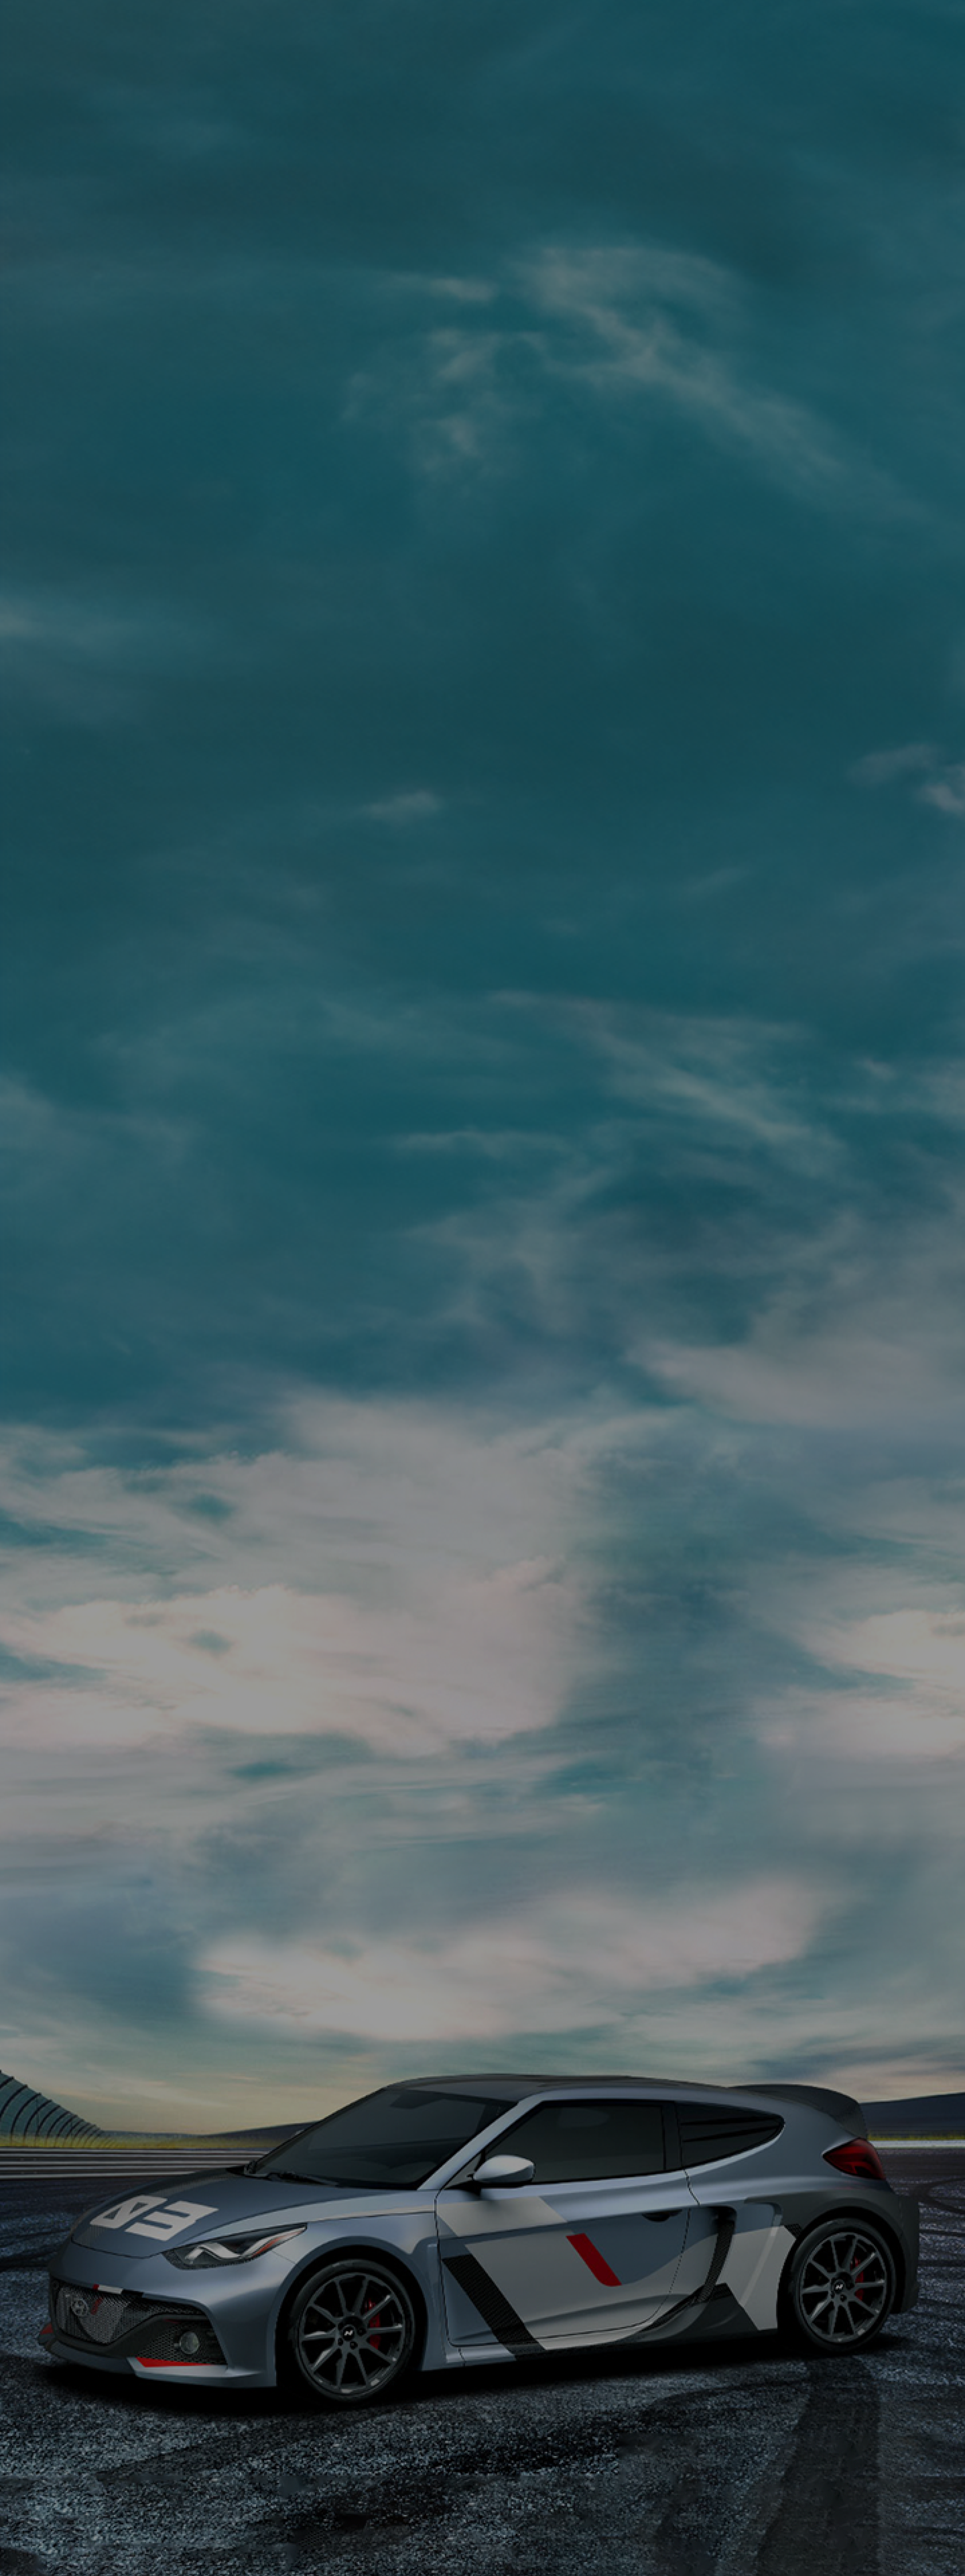
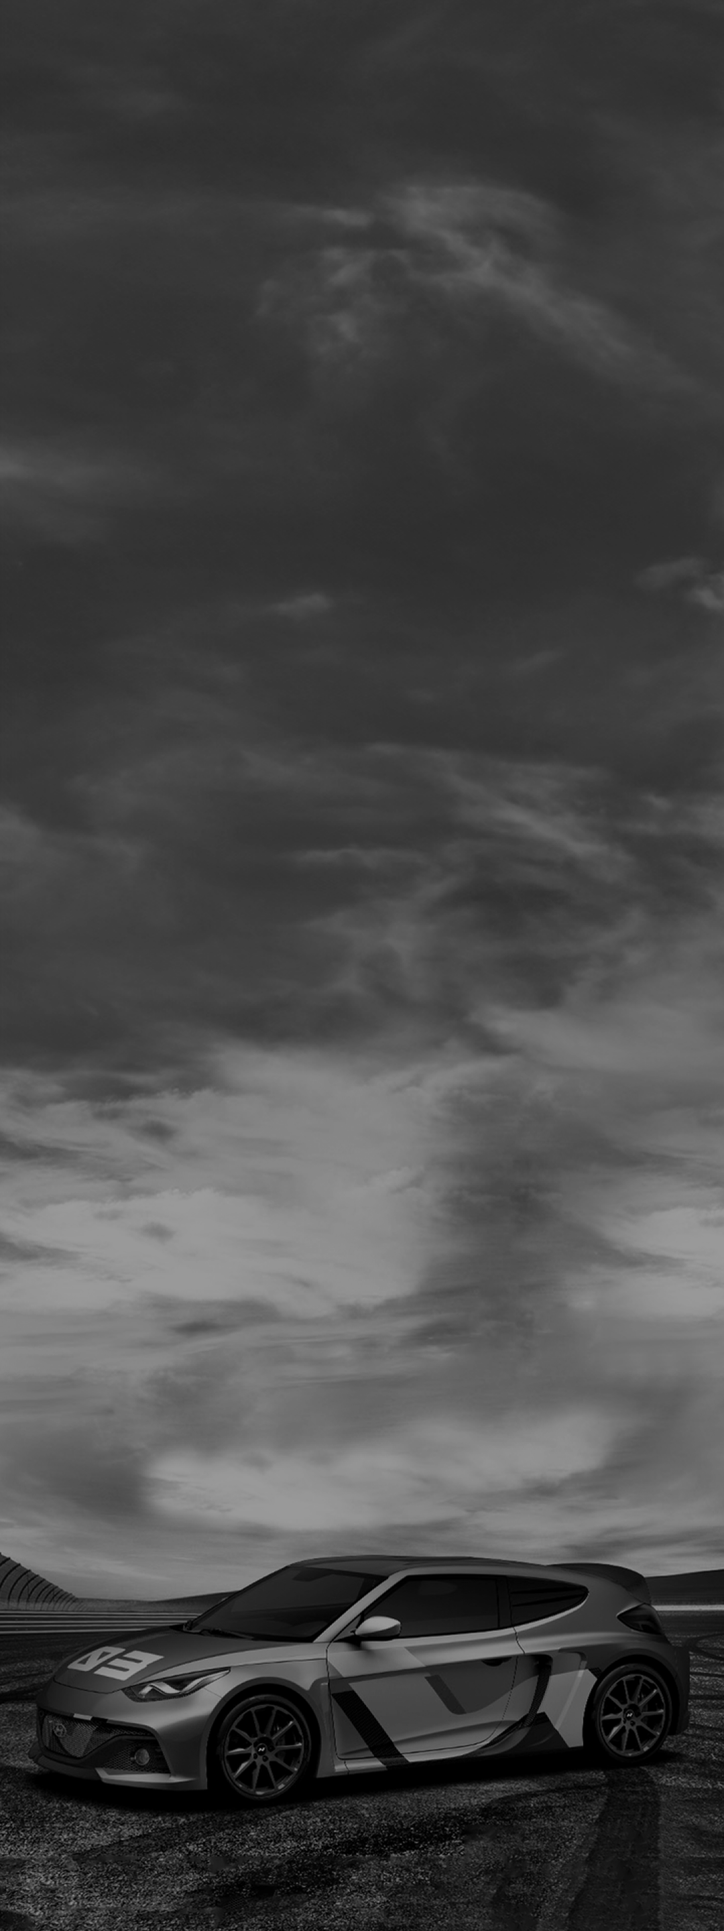
- 오타 수정 (MD010101) <p class="text-strong-md txt-left">N Light Sport Bucket Seats</p> <!-- 07.16 수정 : 오타 수정 --> - 모델 컨텐츠 이미지 : 컬러 -> 흑백 이미지 변경 (모바일) - gnb 버튼 추가건 작업 선배포 CM010101(진행중)

diff --git a/html/main/CM010101.html b/html/main/CM010101.html
@@ -780,9 +780,33 @@
             </ul>
           </div>
           <div class="navigation-item03">
-            <button class="sharing-btn pop-open" aria-controls="sharing-page" aria-haspopup="true" aria-expanded="false"
+            <div class="btn-navi-wrap">
+              <div class="btn-box">
+                <button type="button" class="btn btn-md-primary01">
+                  My Post
+                  <span class="btn-icon16 icon-right-wh" aria-hidden="true"></span>
+                </button>
+                <!-- <button type="button" class="btn btn-md-primary01">
+                  Post
+                  <span class="btn-icon16 icon-right-wh" aria-hidden="true"></span>
+                </button> -->
+              </div>
+              <button class="sharing-btn pop-open" aria-controls="sharing-page" aria-haspopup="true" aria-expanded="false"
               title="sharing 팝업오픈">
               Sharing
+            </button>
+            </div> <!--//btn-navi -->
+          </div>
+        </div>
+        <div class="btn-navi-wrap mo-only">
+          <div class="btn-box">
+            <button type="button" class="btn btn-md-primary01">
+              My Post
+              <span class="btn-icon16 icon-right-wh" aria-hidden="true"></span>
+            </button>
+            <button type="button" class="btn btn-md-primary01">
+              Post
+              <span class="btn-icon16 icon-right-wh" aria-hidden="true"></span>
             </button>
           </div>
         </div>

diff --git a/html/models/MD010101.html b/html/models/MD010101.html
@@ -1123,7 +1123,7 @@
                     <div>
                       <img src="../../inc/images/Models/ioniq5N/ioniq5N_desgin_05.png" alt="ioniq5N 이미지" />
                       <div>
-                        <p class="text-strong-md txt-left">N Light Sportㅣㅐ Bucket Seats</p>
+                        <p class="text-strong-md txt-left">N Light Sport Bucket Seats</p> <!-- 07.16 수정 : 오타 수정 -->
                         <p class="text-normal-xs txt-left">Welcome to the best seats in the house: the N Light Sport
                           bucket Seats.</p>
                       </div>

diff --git a/inc/css/models.css b/inc/css/models.css
@@ -11,14 +11,17 @@
   width: 100%;
 }
 .models-wrap [class*="max1440"] {
-  max-width: 1600px;
-  padding: 0 80px;
   margin: 0 auto;
   display: flex;
   gap: 80px;
   flex-direction: column;
   align-items: center;
   text-align: center;
+}
+
+.models-wrap.brand [class*="max1440"] {
+  max-width: 1600px;
+  padding: 0 80px;
 }
 
 .models-wrap .max1440.type2 {
@@ -864,6 +867,8 @@
     max-width: 100%;
     gap: 44px;
     width: 100%;
+  } 
+  .models-wrap.brand [class*="max1440"] {
     padding: 0 24px;
   }
   .models-wrap .max1440.type2 {

diff --git a/inc/css/layout_mo.css b/inc/css/layout_mo.css
@@ -359,4 +359,20 @@
   .navigation-item02.nav-mo .rending-wrap li:not(:first-child) {
     padding-top: 20px;
   }
+
+
+  /* 07.16 추가 */
+  .btn-navi-wrap {
+    gap:12px;
+  }
+  .btn-navi-wrap.mo-only .btn-box {
+    display: flex;
+  }
+  .btn-navi-wrap.mo-only .btn-box .btn {
+    display: block;
+    width: 50%;
+  }
+  .btn-navi-wrap.mo-only .btn-box .btn:not(:last-child) {
+    margin-right: 0;
+  }
 }

diff --git a/inc/css/layout.css b/inc/css/layout.css
@@ -483,6 +483,20 @@ body.fix {
 .sns-sharing-wrap .sharing-icon-btn.x-icon {
 }
 
+/* 07.16 추가 */
+.btn-navi-wrap {
+  display: flex;
+  gap:16px;
+}
+.btn-navi-wrap .btn-box .btn {
+  padding:5px 12px;
+  font-size: 16px;
+  line-height: 22px;
+}
+.btn-navi-wrap .btn-box .btn:not(:last-child) {
+  margin-right: 6px;
+}
+
 /* gnb 1dep*/
 .mo-gnb__back-btn {
   display: none;
